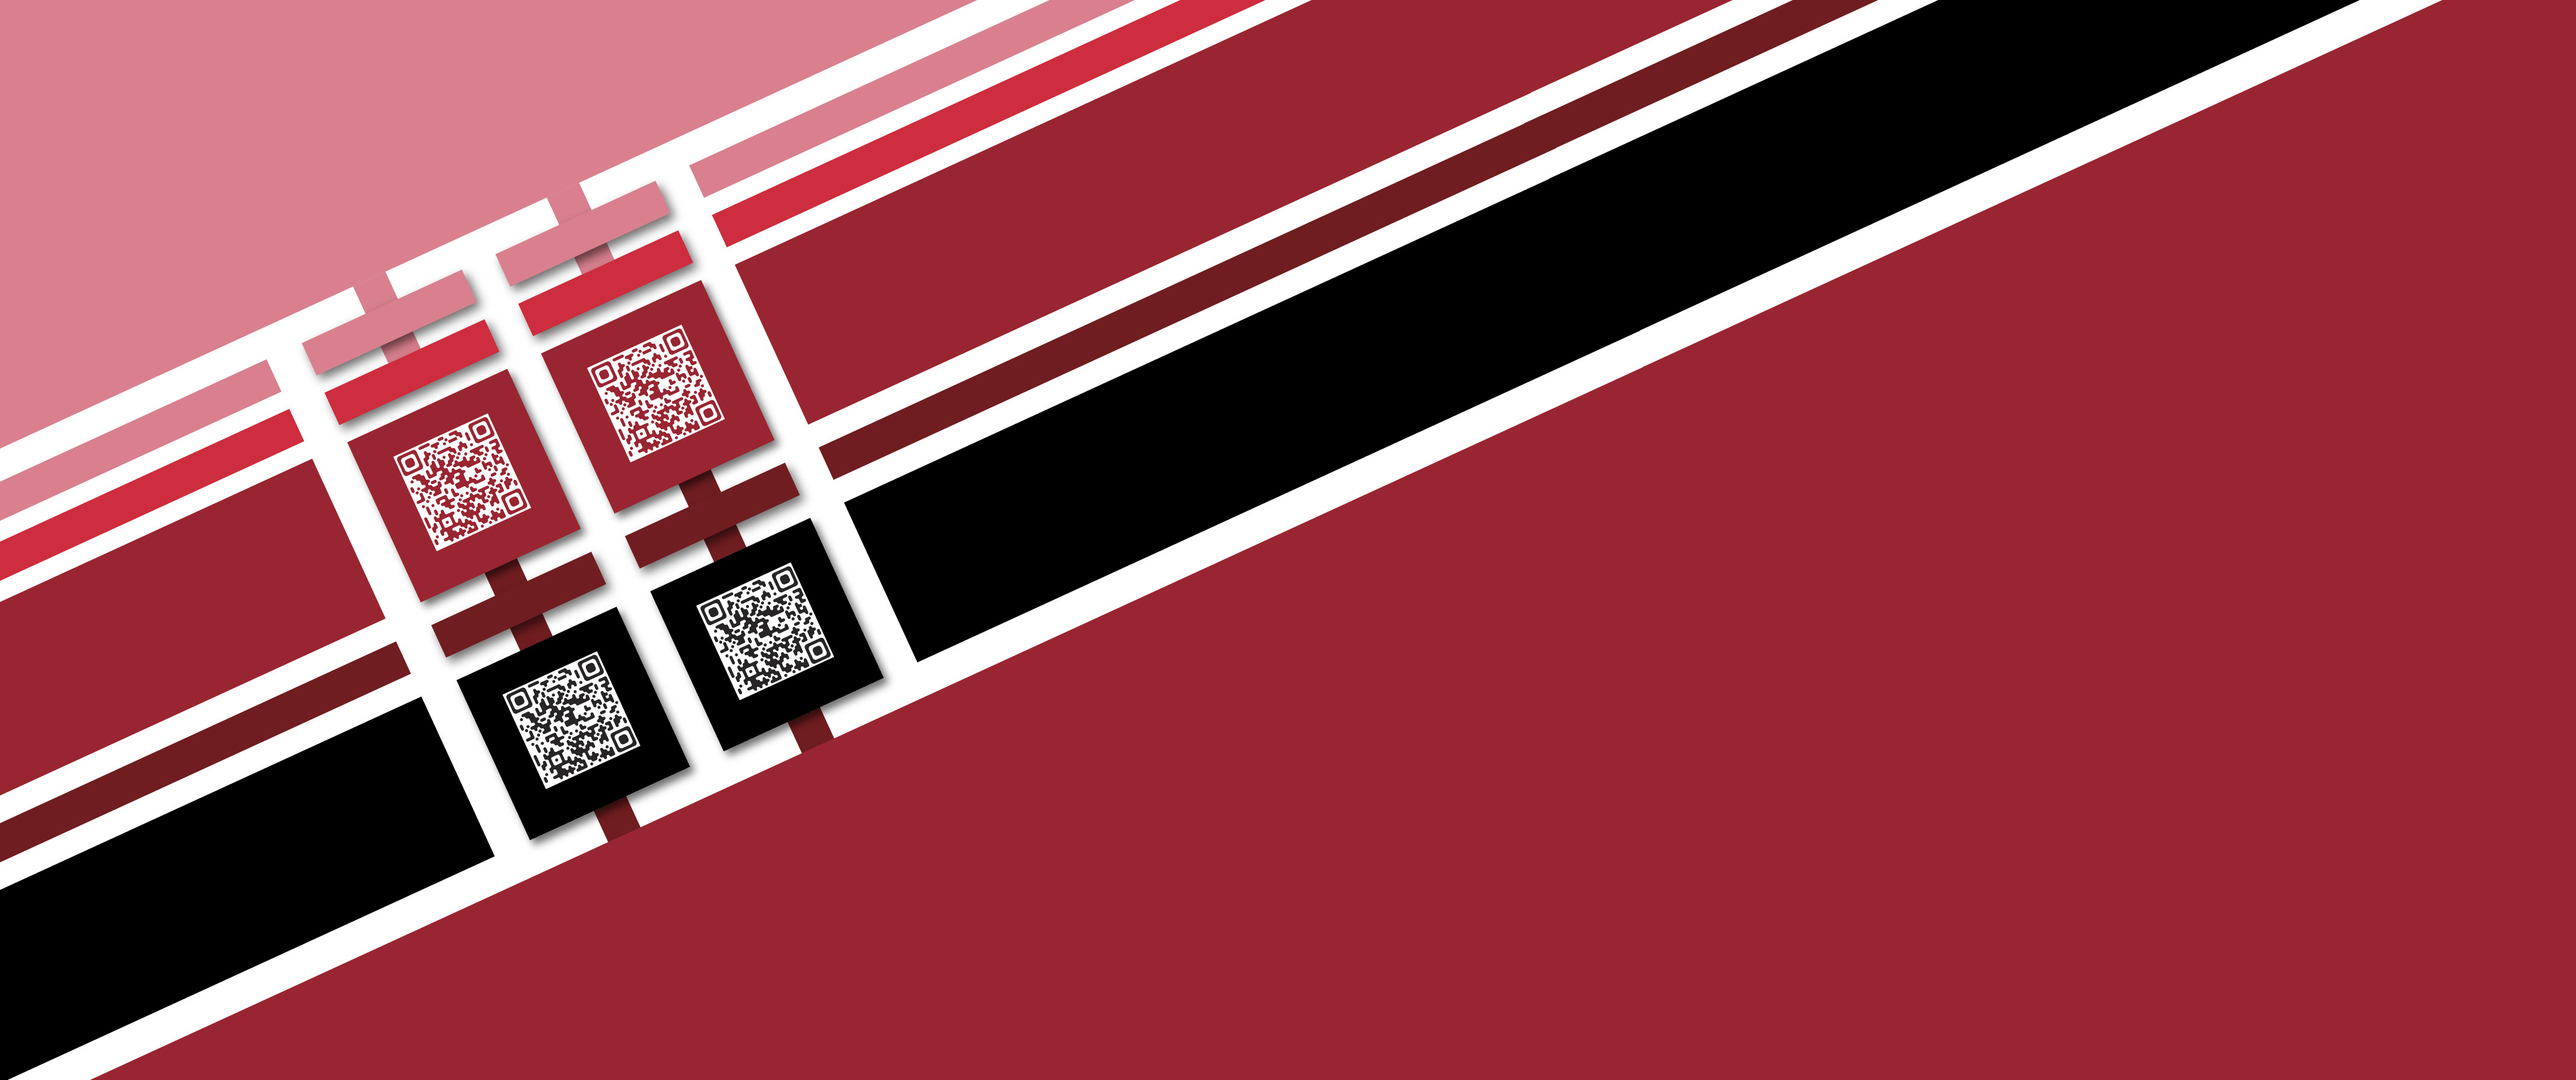
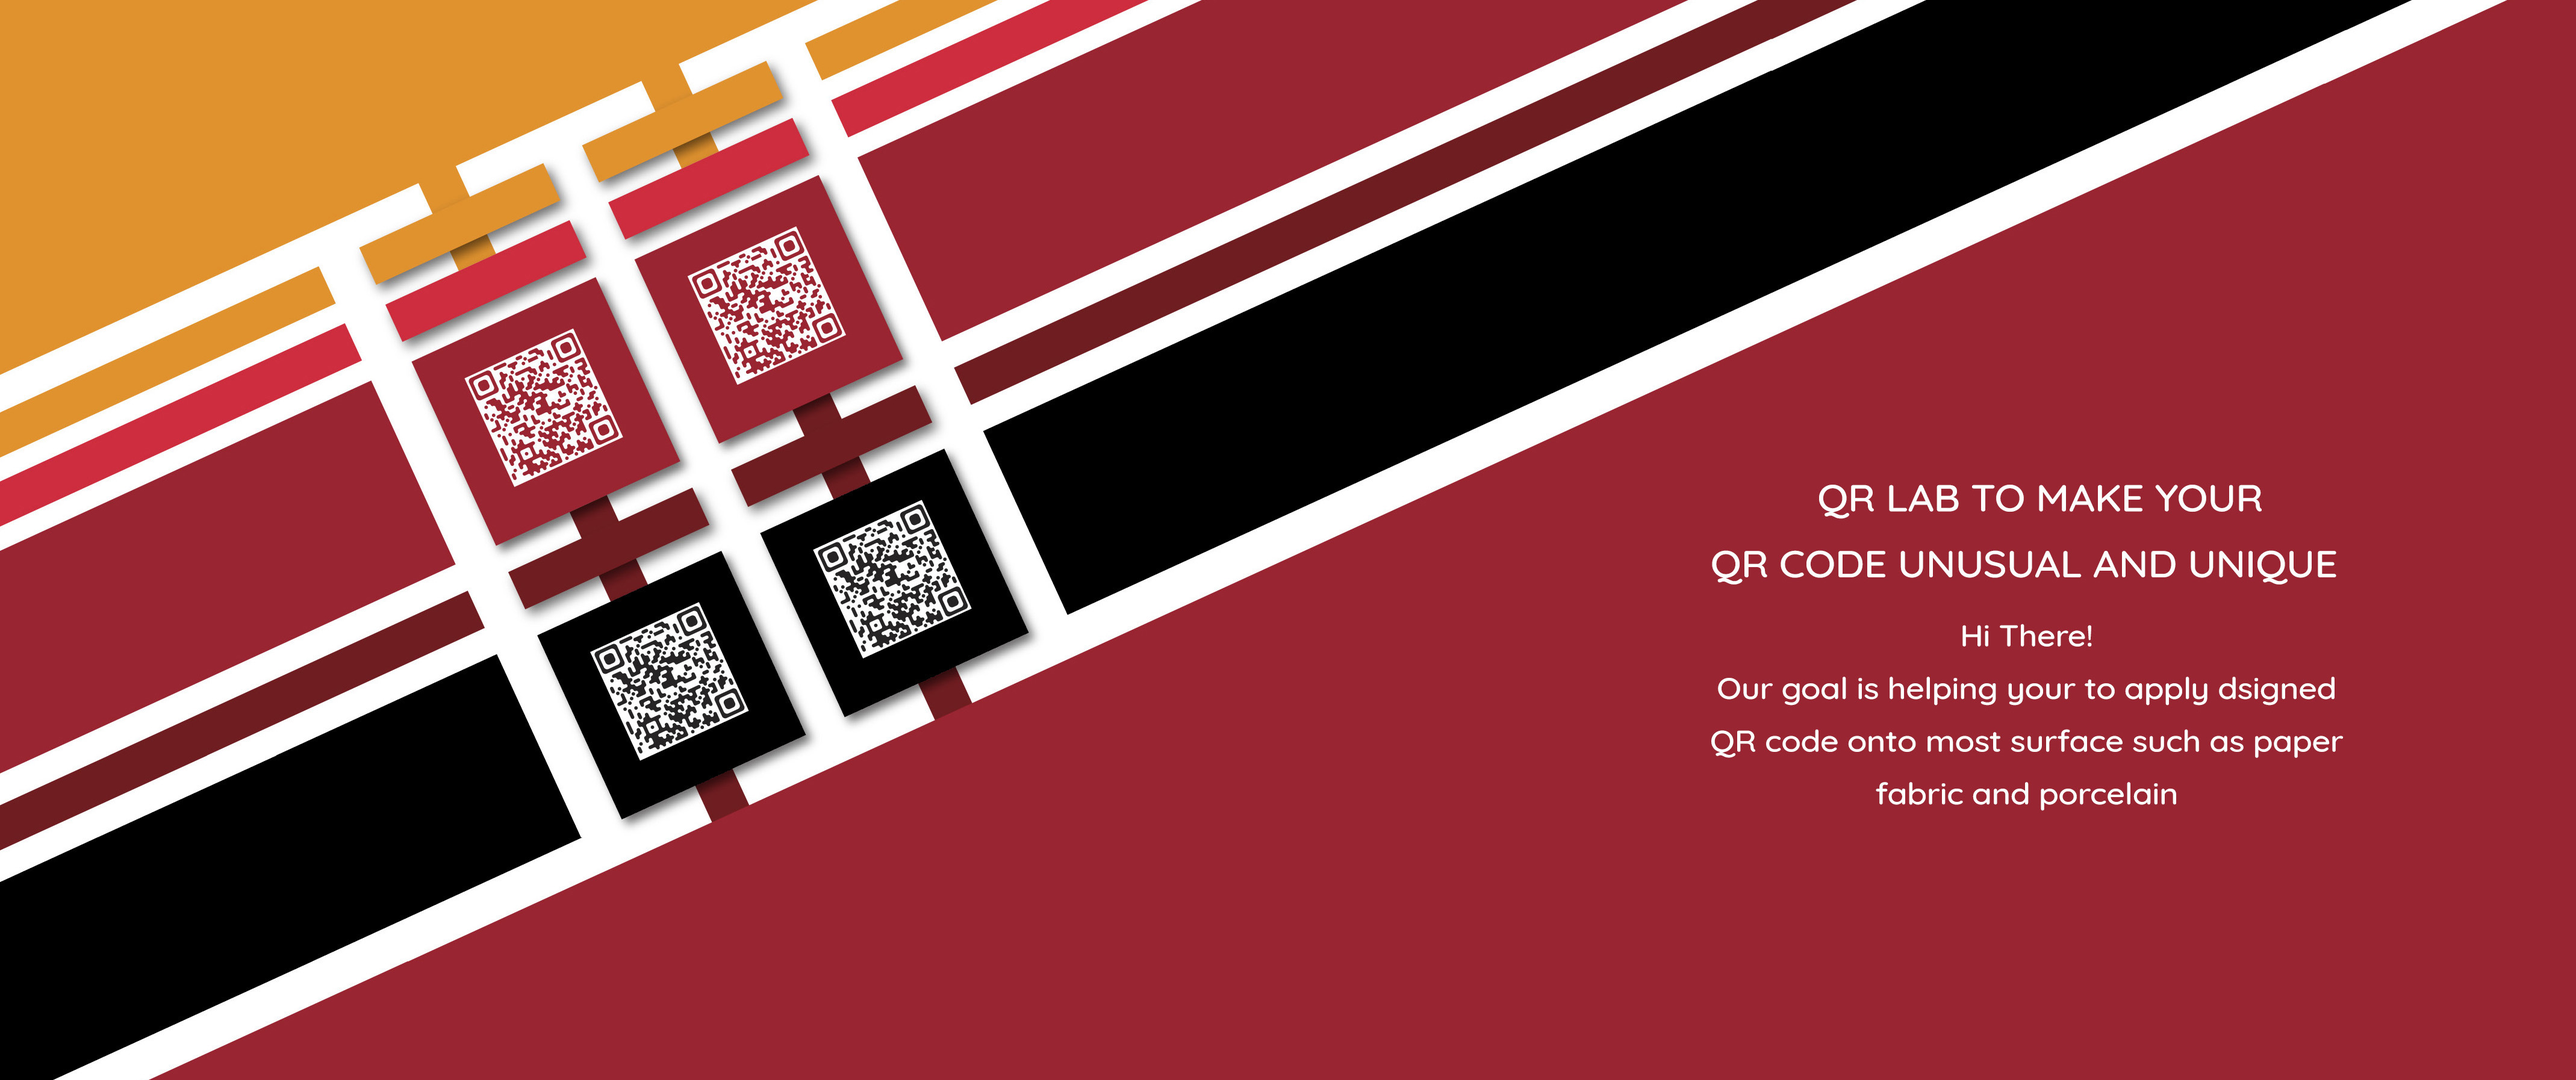
345
567

diff --git a/index.html b/index.html
@@ -40,7 +40,7 @@
 
 
 <!-- Body Start -->
-<div class="body">
+
 
 
 
@@ -51,12 +51,7 @@
     <img class="containerpicture" src="assets/images/poster.jpg" alt="">
   </div>
   <div class="posterinfor">
-    <p>Very good to have you here our service is
-    <br>letting you QR code availabe to apply
-    <br>onto most surface such as paper
-    <br>fabric and porcelain
-    <br></p>
-    <img class="shopicon" src="assets/images/icons/shop.png" alt="">
+    
   </div>
 
 

diff --git a/assets/css/main.css b/assets/css/main.css
@@ -57,11 +57,6 @@
 
 /*body css*/
 
-.body{
-  display: flex;
-  flex-direction: column;
-  justify-content: space-around;
-}
 
 
 
@@ -94,9 +89,9 @@
   font-weight: lighter;
   font-size: 160%;
   color: white;
-  position: absolute;
-  top:30vh;
-  right: 10vw;
+  position: relative;
+  top:-20vh;
+  right:20vw;
   text-align: center;
   line-height: 130%;
 
